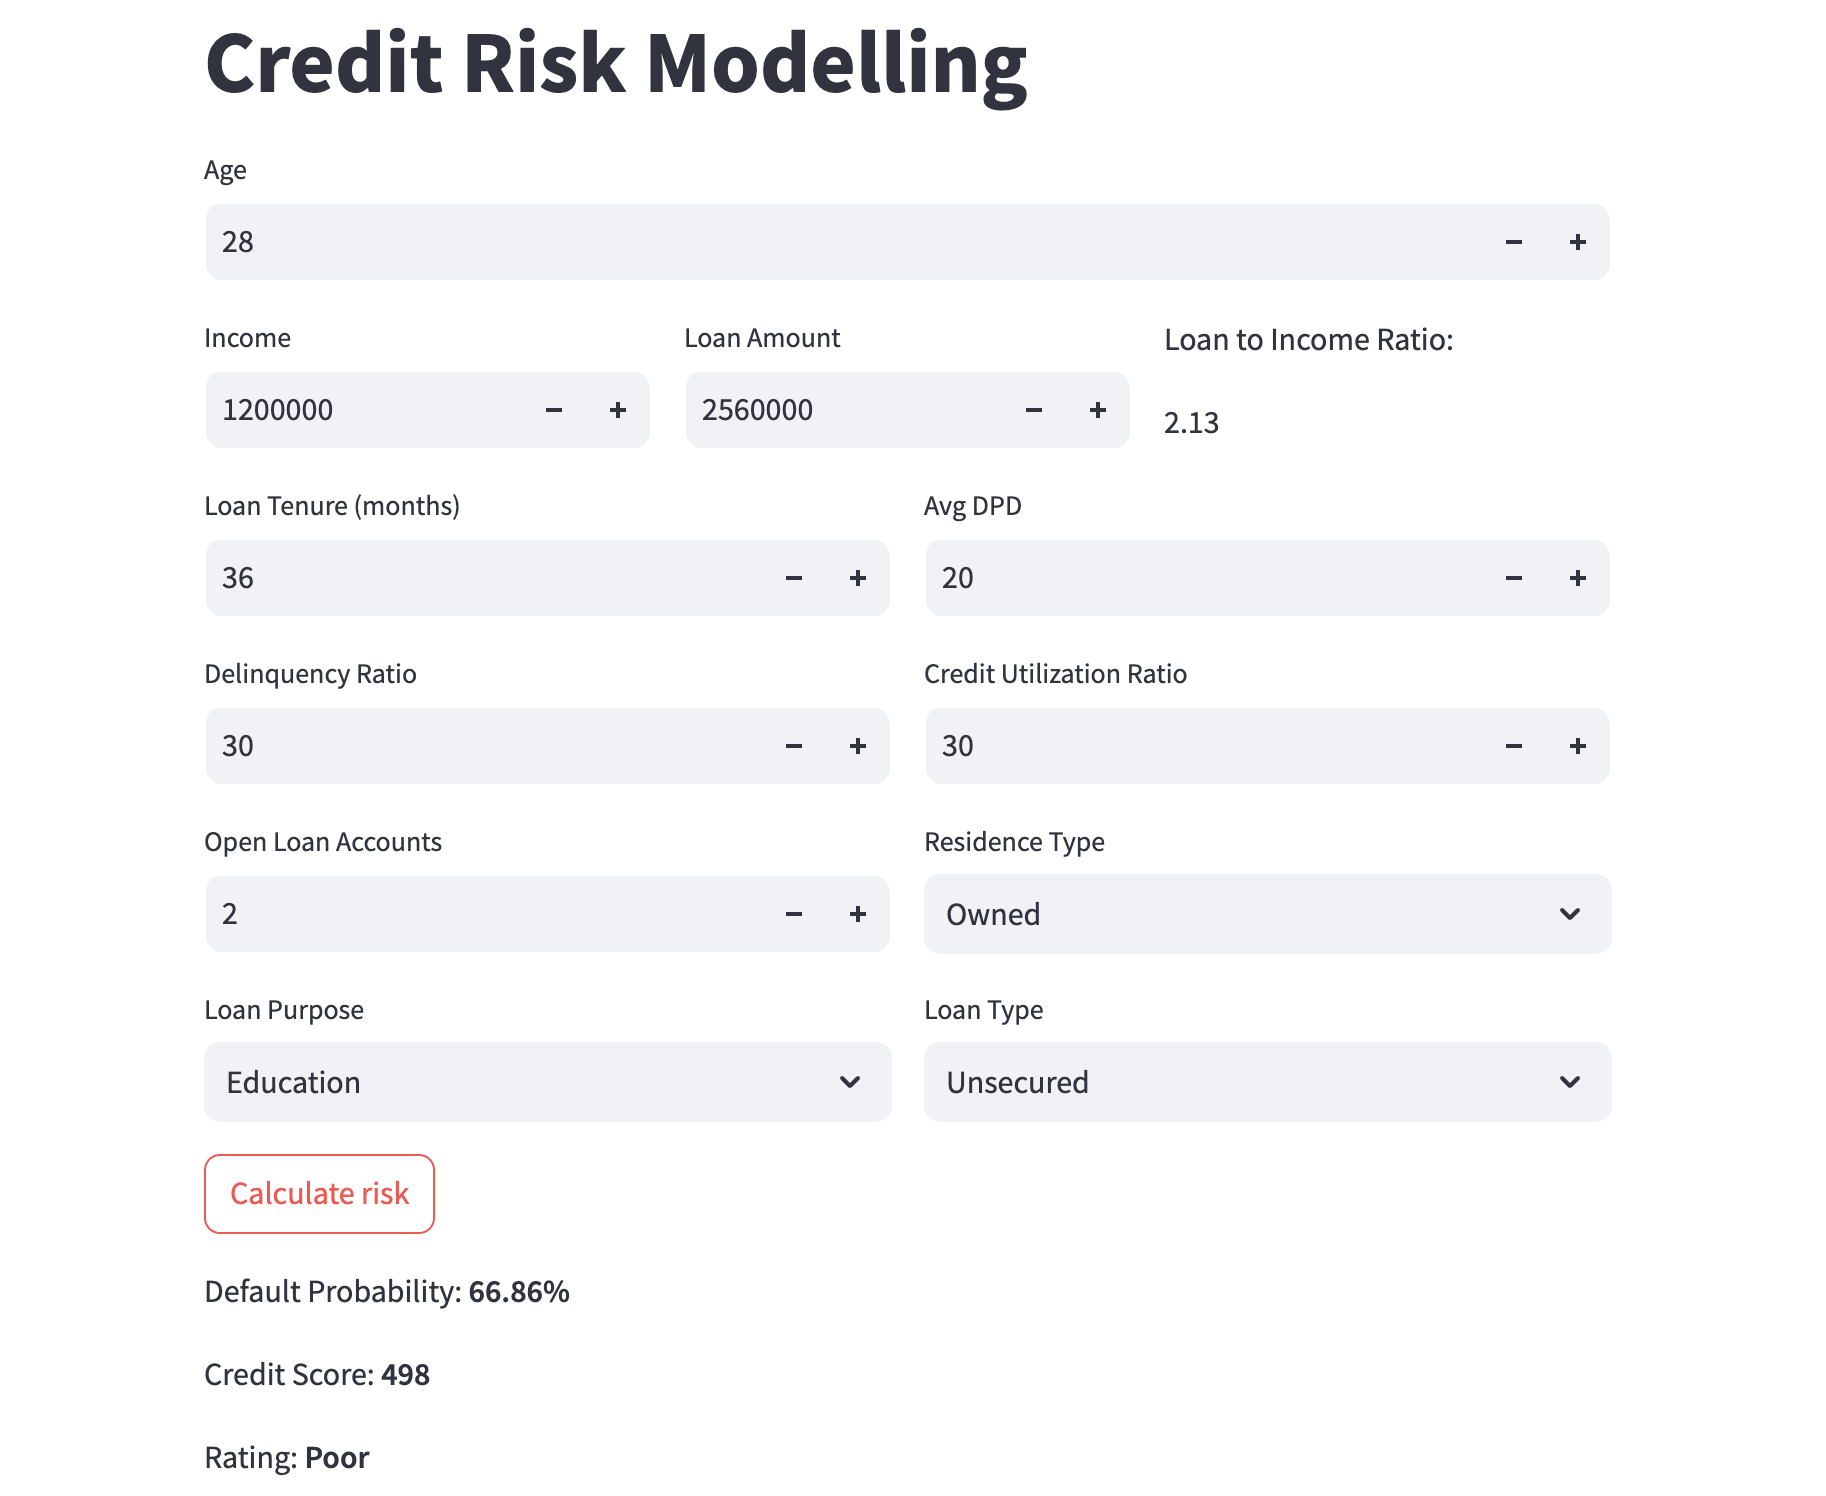
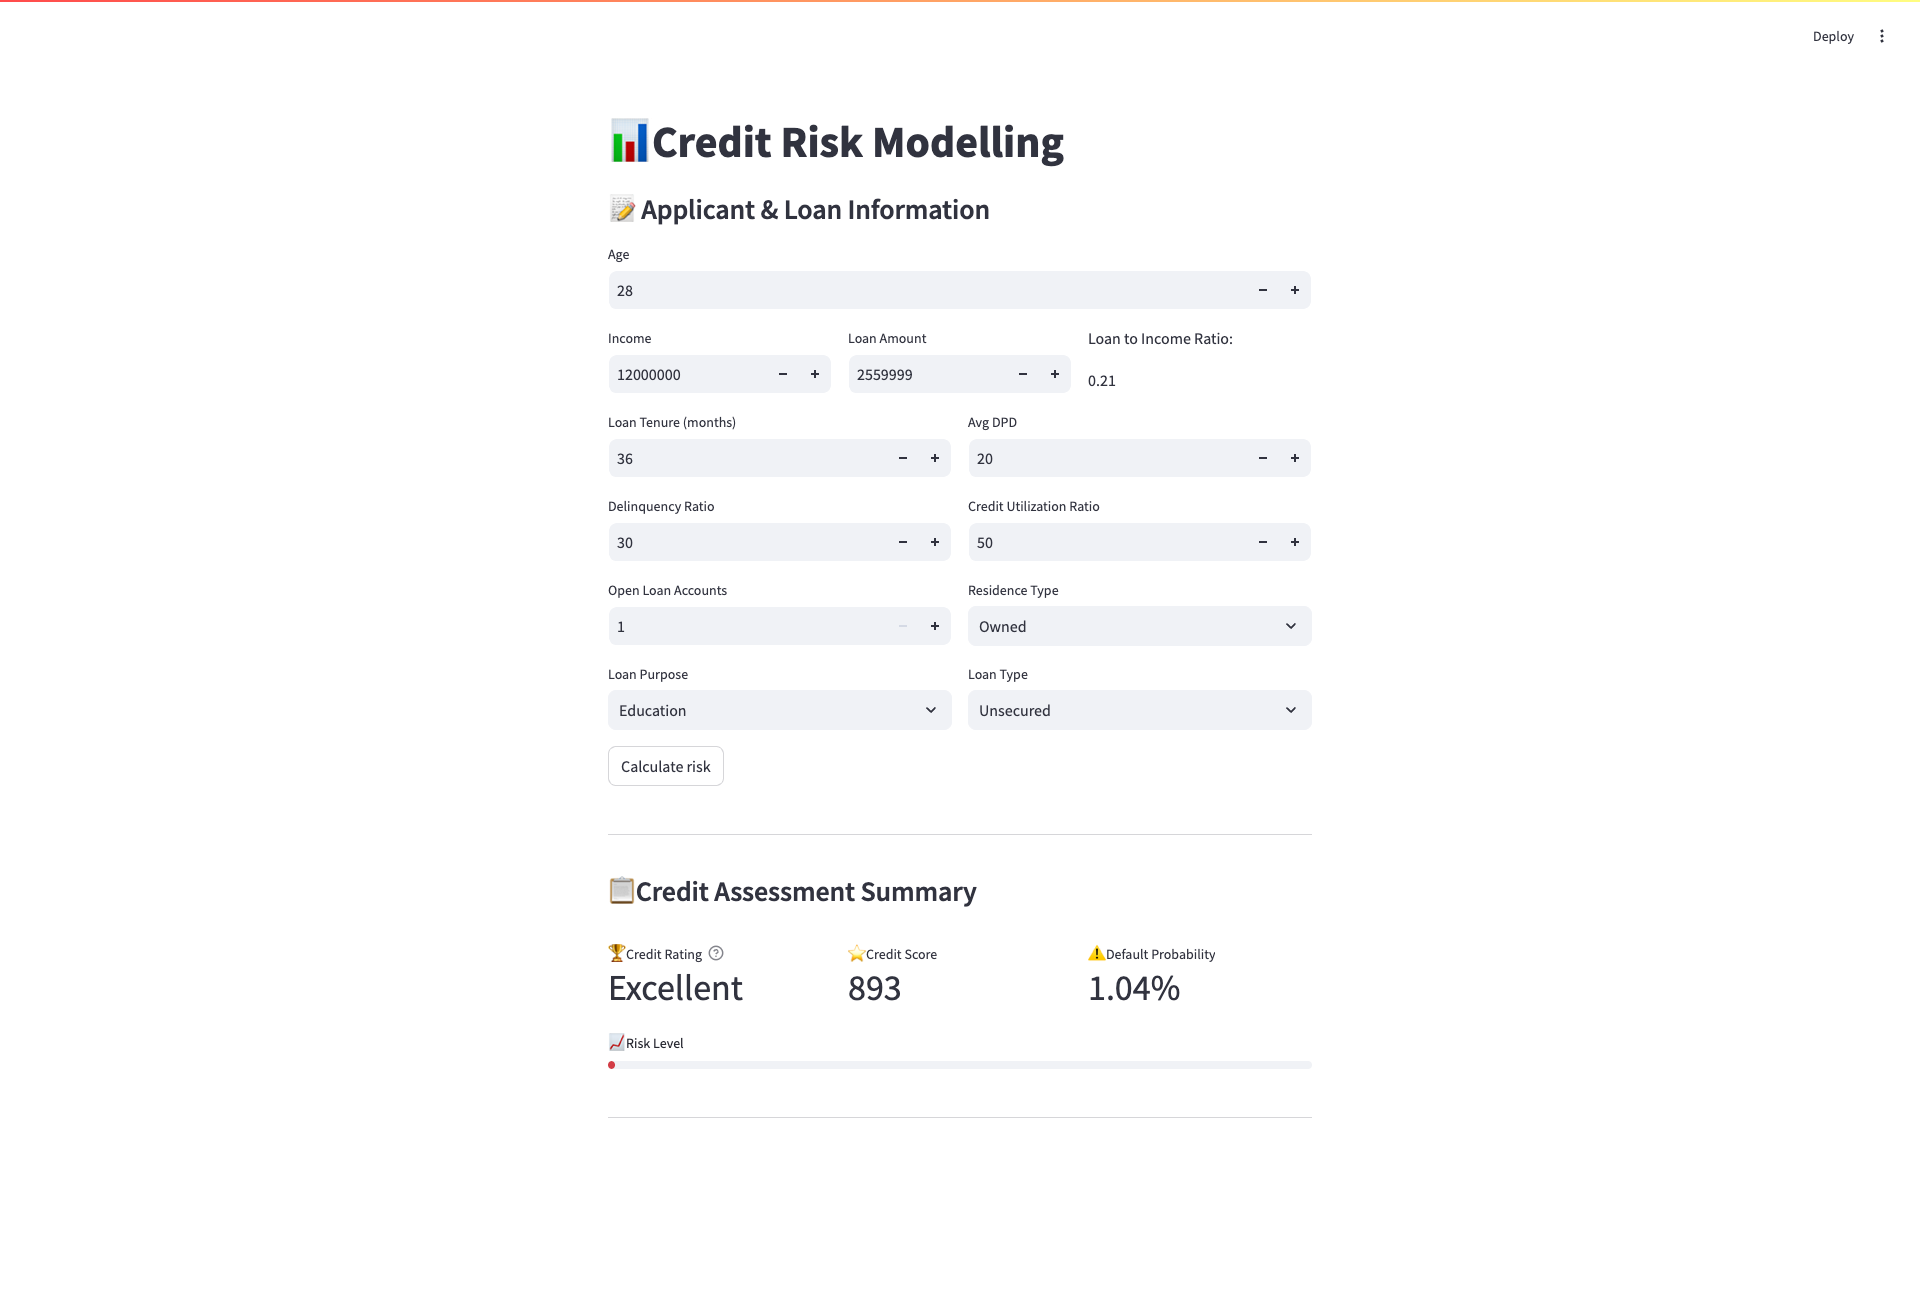
updated UI

diff --git a/main.py b/main.py
@@ -1,7 +1,10 @@
 import streamlit as st
 from prediction_helper import predict
 
-st.title("Credit Risk Modelling")
+st.title("📊Credit Risk Modelling")
+
+# st.subheader("📝 Applicant Details & Loan Request")
+st.subheader("📝 Applicant & Loan Information")
 
 row1 = st.columns(1)
 row2 = st.columns(3)
@@ -45,9 +48,45 @@ with row6[1]:
     loan_type = st.selectbox('Loan Type', ['Unsecured', 'Secured'])
 
 if st.button("Calculate risk"):
-    probability, credit_score, rating = predict(age, income, loan_amount, loan_tenure_months, avg_dpd_per_delinquency,
+    default_probability, credit_score, rating = predict(age, income, loan_amount, loan_tenure_months, avg_dpd_per_delinquency,
                                                 delinquency_ratio, credit_utilization_ratio, num_open_accounts,
                                                 residence_type, loan_purpose, loan_type)
-    st.write(f"Default Probability: **{probability:.2%}**")
-    st.write(f"Credit Score: **{credit_score}**")
-    st.write(f"Rating: **{rating}**")
+    st.divider()
+    st.subheader("📋Credit Assessment Summary")
+    st.markdown("""
+    <style>
+    .stProgress > div > div > div > div {
+        background-color: #d33c46;
+    }
+    </style>
+    """, unsafe_allow_html=True)
+    # st.metric("Credit Rating", rating)
+    # st.write(f"Default Probability: **{default_probability:.2%}**")
+    # st.write(f"Credit Score: **{credit_score}**")
+    # st.write(f"Rating: **{rating}**")
+
+    credit_rating_help_text = """
+    **Credit Rating is determined by the Credit Score:**
+    - **Excellent:** 750 - 900
+    - **Good:** 650 - 749
+    - **Average:** 500 - 649
+    - **Poor:** 300 - 499
+    - **Undefined:** Scores outside 300-900 range
+    """
+
+    col1, col2, col3 = st.columns(3) # Creates three columns
+
+    with col1:
+
+        st.metric(label="🏆Credit Rating", value=rating, help=credit_rating_help_text)
+
+    with col2:
+        st.metric(label="⭐Credit Score", value=credit_score) 
+
+    with col3:
+        st.metric(label="⚠Default Probability", value=f"{default_probability:.2%}") 
+
+
+    st.progress(int(default_probability * 100), text="📈Risk Level") 
+   
+    st.markdown("---") 
